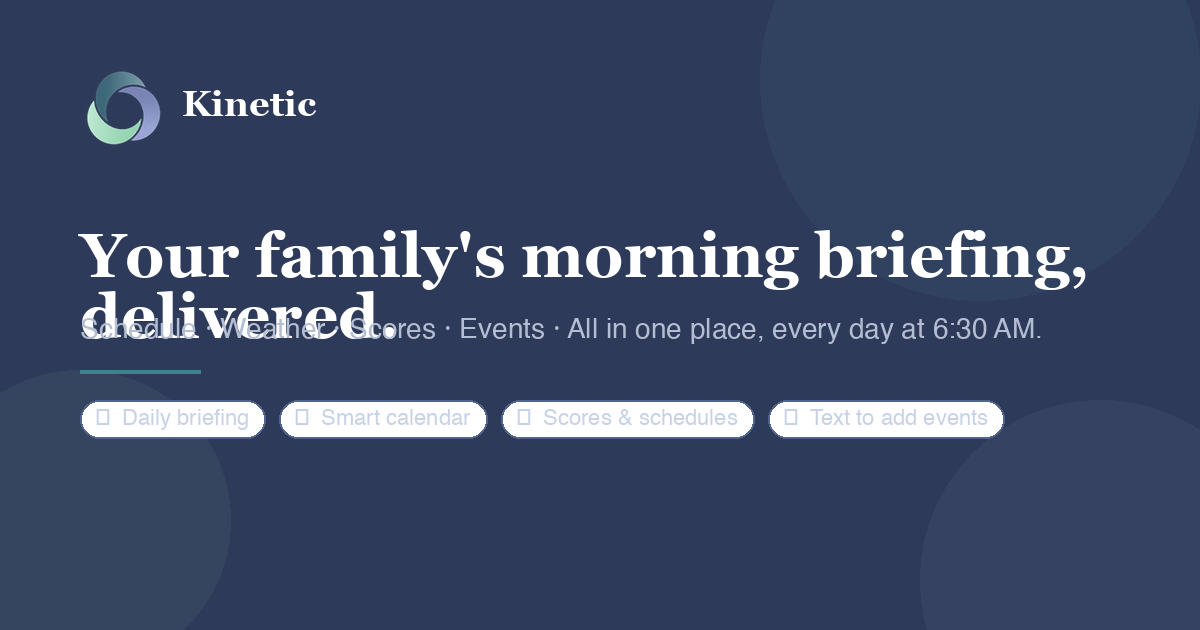
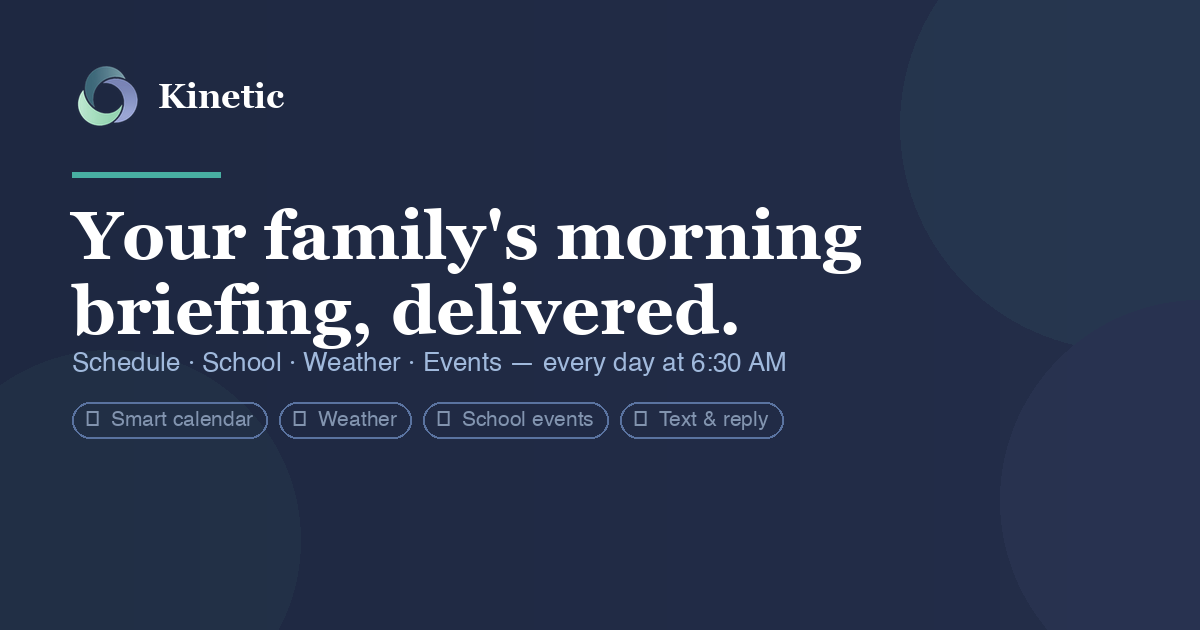
brand: fix OG image layout, update meta descriptions (remove 'Just email')

Changed region(s): [[0.0, 0.0, 0.925, 1.0], [0.0617, 0.0905, 0.2775, 0.2413], [0.0617, 0.2714, 0.185, 0.3016]]

diff --git a/index.html b/index.html
@@ -5,12 +5,12 @@
     <meta name="viewport" content="width=device-width, initial-scale=1.0">
     <meta name="google-site-verification" content="vycEVCqRAHr3kqgU0z3qqDZN0MAOqZbVkoot1PZ1WOc" />
     <title>Kinetic | Family Morning Briefing — From Chaos to Calm</title>
-    <meta name="description" content="Kinetic delivers a personalized morning briefing for your family every day at 6:30 AM — your schedule, local weather, school events, and everything you need to move with intention. No app. Just email." />
+    <meta name="description" content="Kinetic delivers a personalized morning briefing for your family every day at 6:30 AM — your schedule, school calendar, local weather, and everything happening this week. Reply to add events, forward schedules, or connect your calendar. It just works." />
     <link rel="canonical" href="https://kineticfam.com" />
 
     <!-- Open Graph -->
     <meta property="og:title" content="Kinetic | Family Morning Briefing — From Chaos to Calm">
-    <meta property="og:description" content="Kinetic delivers a personalized morning briefing for your family every day at 6:30 AM — schedules, weather, school events, and more. No app. Just email.">
+    <meta property="og:description" content="Your family's schedule, school calendar, weather, and local events — in one smart morning briefing at 6:30 AM. Connect your calendars, reply to add events, and always know what's coming.">
     <meta property="og:image" content="https://kineticfam.com/assets/og-image.png">
     <meta property="og:image:width" content="1200">
     <meta property="og:image:height" content="630">
@@ -20,7 +20,7 @@
     <!-- Twitter Card -->
     <meta name="twitter:card" content="summary_large_image">
     <meta name="twitter:title" content="Kinetic | Family Morning Briefing — From Chaos to Calm">
-    <meta name="twitter:description" content="Kinetic delivers a personalized morning briefing for your family every day at 6:30 AM. No app. Just email.">
+    <meta name="twitter:description" content="Your family's schedule, school calendar, weather, and local events — delivered every morning at 6:30 AM. Connect your calendars and reply to add events.">
     <meta name="twitter:image" content="https://kineticfam.com/assets/og-image.png">
 
     <!-- JSON-LD Structured Data -->
